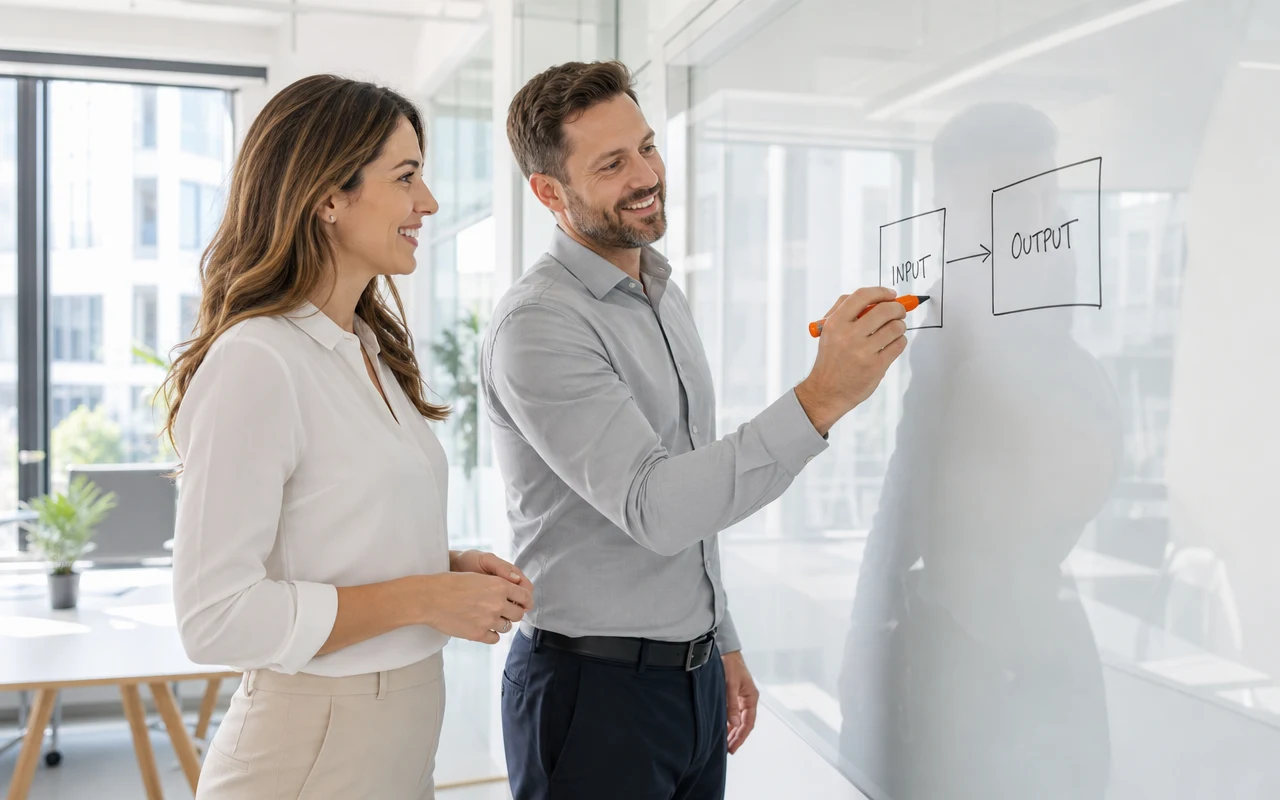
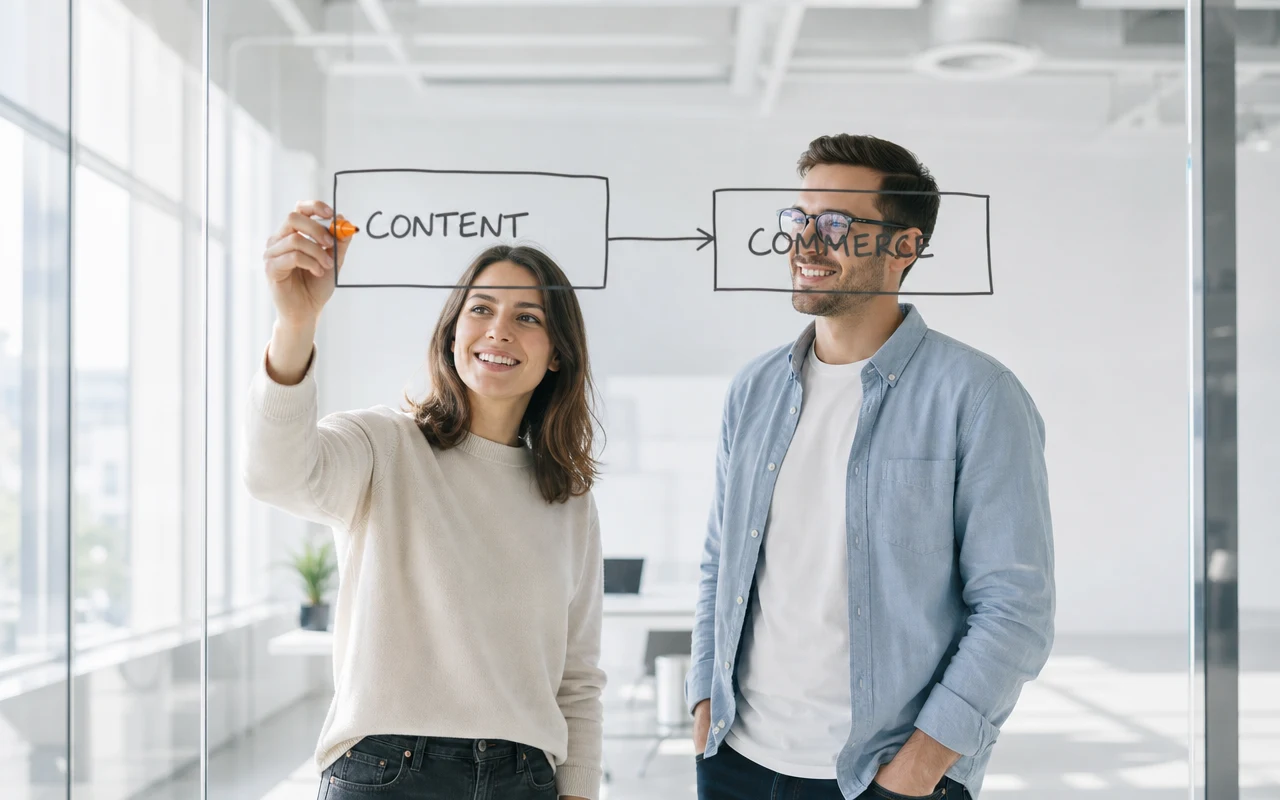
Fix hybrid-architecture diagram and correct the 25-year experience claim
Image: wordpress-to-shopify-hybrid-architecture drew "INPUT -> OUTPUT", which was legible but said nothing about its caption (WordPress kept for content, Shopify running commerce). The box labels are now pinned to the actual concept and it renders "CONTENT -> COMMERCE".

Experience claim: PRODUCT.md fixes the framing at decade-plus and rules out 25 years explicitly. Four instances corrected. The widest-reaching was authors.ts yearsExperience, which renders on the author page AND on every blog post byline across all 117 posts, so the claim was on far more pages than the two city pages that surfaced it. Also corrected in the Person-schema bio and in the credentials list.

Other authors already sit at 10+, 7+, 5+ and 6+, so 25+ was the outlier.

diff --git a/src/data/authors.ts b/src/data/authors.ts
@@ -20,9 +20,12 @@ export const AUTHORS: Record<string, AuthorProfile> = {
   name: 'Bhavesh Barot',
   slug: 'bhavesh-barot',
   jobTitle: 'Founder & CEO',
-  bio: 'Bhavesh Barot is the Founder and CEO of FactoryJet, a web design and e-commerce development agency that has served 500+ businesses across the US, UK, and UAE. Under his leadership, FactoryJet has delivered professional websites, Shopify stores, and custom web applications for small businesses, DTC brands, law firms, real estate agencies, and professional service providers, consistently achieving Lighthouse 100/100 performance scores and Core Web Vitals compliance. Bhavesh brings 25+ years of digital strategy and business development experience to his writing, with direct exposure to how website quality affects lead generation, conversion rates, and organic search visibility for small businesses. He has evaluated hundreds of web design agency proposals, developed FactoryJet\'s 7-day delivery methodology, and built the pricing frameworks that allow US small businesses to access enterprise-grade web development at a fixed, transparent price. His work has been informed by direct client relationships across Austin TX, Miami FL, Denver CO, Nashville TN, and other US markets.',
+  bio: 'Bhavesh Barot is the Founder and CEO of FactoryJet, a web design and e-commerce development agency that has served 500+ businesses across the US, UK, and UAE. Under his leadership, FactoryJet has delivered professional websites, Shopify stores, and custom web applications for small businesses, DTC brands, law firms, real estate agencies, and professional service providers, consistently achieving Lighthouse 100/100 performance scores and Core Web Vitals compliance. Bhavesh brings a decade-plus of digital strategy and business development experience to his writing, with direct exposure to how website quality affects lead generation, conversion rates, and organic search visibility for small businesses. He has evaluated hundreds of web design agency proposals, developed FactoryJet\'s 7-day delivery methodology, and built the pricing frameworks that allow US small businesses to access enterprise-grade web development at a fixed, transparent price. His work has been informed by direct client relationships across Austin TX, Miami FL, Denver CO, Nashville TN, and other US markets.',
   shortBio: 'Founder & CEO of FactoryJet, a web design and e-commerce agency serving 500+ US, UK, and UAE businesses. Expert in small business website strategy, Shopify development, and Core Web Vitals optimization.',
-  yearsExperience: '25+',
+  // "10+", not "25+". PRODUCT.md fixes the experience framing at decade-plus and
+  // rules out 25 years explicitly. This value renders on the author page AND on
+  // every blog post byline, so it was the widest-reaching instance of the claim.
+  yearsExperience: '10+',
   image: '/bhavesh_image.jpg',
   linkedin: 'https://www.linkedin.com/in/barotbhavesh/',
   credentials: [
@@ -30,7 +33,7 @@ export const AUTHORS: Record<string, AuthorProfile> = {
     'Lighthouse 100/100 performance standard on all FactoryJet projects',
     '7-day delivery guarantee methodology, 97% on-time delivery rate',
     'Direct experience with web design agency pricing across US, UK, and offshore markets',
-    '25+ years in digital strategy and web development business leadership',
+    'A decade-plus in digital strategy and web development business leadership',
   ],
   expertiseAreas: [
     'Web Design & Development Strategy',

diff --git a/src/app/austin/seo/page.tsx b/src/app/austin/seo/page.tsx
@@ -708,7 +708,9 @@ export default function AustinSeoPage() {
                 <p className="lead">From Silicon Hills startups to South Congress boutiques, FactoryJet builds local SEO that compounds month over month. One agency, the entire metro.</p>
                 <div className="csstats">
                   <div className="csstat"><div className="csv">500+</div><div className="csk">businesses served across the US</div></div>
-                  <div className="csstat"><div className="csv">25 yrs</div><div className="csk">of building sites and SEO for SMBs</div></div>
+                  {/* "10+ yrs", not 25. PRODUCT.md fixes the experience framing at
+                      decade-plus and rules out 25 years explicitly. */}
+                  <div className="csstat"><div className="csv">10+ yrs</div><div className="csk">of building sites and SEO for SMBs</div></div>
                   <div className="csstat"><div className="csv">7 days</div><div className="csk">from audit to active campaign</div></div>
                 </div>
                 <div className="cta-row" style={{ marginTop: '28px' }}>

diff --git a/src/app/denver/seo/page.tsx b/src/app/denver/seo/page.tsx
@@ -400,7 +400,9 @@ export default function DenverSeoPage() {
                 <p className="real">No stock screenshots and no invented case studies. These are live client builds you can open and test yourself.</p>
                 <div className="trust-chips">
                   <div className="trust-chip"><b>500+</b> businesses served</div>
-                  <div className="trust-chip"><b>25 yrs</b> building for SMBs</div>
+                  {/* "10+ yrs", not 25. PRODUCT.md fixes the experience framing at
+                      decade-plus and rules out 25 years explicitly. */}
+                  <div className="trust-chip"><b>10+ yrs</b> building for SMBs</div>
                   <div className="trust-chip">Month to month</div>
                 </div>
               </div>
